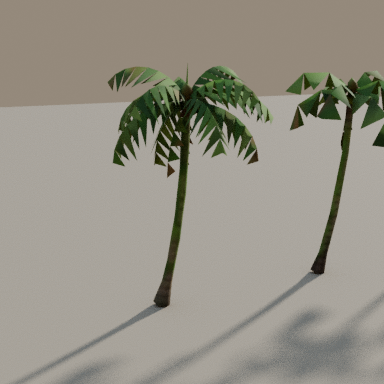
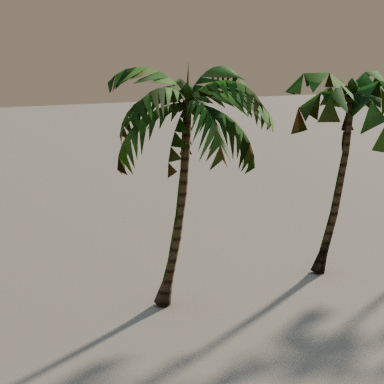
Nostalgia props: WIP checkpoint (agents working)
Claude-Session: https://claude.ai/code/session_012JpAoggZPtHm9fJ1oEKQtE

Changed region(s): [[0.2812, 0.1562, 0.7188, 0.7812], [0.75, 0.1875, 1.0, 0.5], [0.8438, 0.5625, 0.875, 0.625]]

diff --git a/nostalgia/tools/blender/props_trees.py b/nostalgia/tools/blender/props_trees.py
@@ -236,6 +236,15 @@ def uv_atlas_trees(objs, margin=0.004, angle=60.0):
     if sel(False):
         bpy.ops.uv.smart_project(angle_limit=math.radians(angle), island_margin=margin, area_weight=0.0,
                                  correct_aspect=True, scale_to_bounds=False)
+    # texel share: wood (rings, bark) gets more, foliage (flat noise) less
+    bpy.ops.object.mode_set(mode='OBJECT')
+    for o in objs:
+        f = o.get('uvs', 1.0)
+        if abs(f - 1.0) > 1e-3:
+            uv = o.data.uv_layers.active.data
+            for l in uv:
+                l.uv = l.uv * f
+    bpy.ops.object.mode_set(mode='EDIT')
     bpy.ops.mesh.select_all(action='SELECT')
     try:
         bpy.ops.uv.select_all(action='SELECT')
@@ -292,12 +301,14 @@ class Tree:
         ob = taper(self.name('trunk'), pts, radii, seg=seg, mat=mat, cap_end=cap)
         if flute_kw:
             flute(ob, pts, **flute_kw)
+        ob['uvs'] = WOOD_UV
         zt, tb = self.zt, self.tb
         P.wind(ob, lambda co, i: tb * min(1.0, max(0.0, co.z) / zt) ** 1.5, 0.0, 0.0)
         return self.add(ob, *lods)
 
     def limb(self, pts, radii, seg=5, mat=None, lods=(0, 2), phase=0.0, cap=False):
         ob = taper(self.name('limb'), pts, radii, seg=seg, mat=mat, cap_end=cap)
+        ob['uvs'] = WOOD_UV
         P.wind(ob, self.bend, phase, 0.0)
         return self.add(ob, *lods)
 
@@ -336,6 +347,7 @@ class Tree:
 
 
 UV_ANGLE = 85.0
+WOOD_UV = 1.8
 
 
 # ---- crown helpers
@@ -475,6 +487,7 @@ def build_palm_crown(T, top, fronds, mats, rachis, dry_mat=None, dry=(), lod1=No
                      sweep=fd.get('sweep', 0.45), seed=T.rnd.randrange(10 ** 6), plume=fd.get('plume', 0.0),
                      rachis_w=fd.get('rachis_w', (0.42, 0.12)), sag=fd.get('sag', 0.12))
         frond_wind(ob, base, fd['L'], tb, T.rnd.random(), fd.get('fl0', 0.3))
+        ob['uvs'] = 0.7
         T.add(ob, *fd.get('lods', (0, 0)))
     for lst, lv in ((lod1, 1), (lod2, 2)):
         for k, fd in enumerate(lst or []):
@@ -489,6 +502,7 @@ def build_palm_crown(T, top, fronds, mats, rachis, dry_mat=None, dry=(), lod1=No
             else:
                 ob = vblade(T.name('vfrond'), pts, fd.get('w', fd['L'] * 0.2), mat, hang=fd.get('hang', 35), sweep=fd.get('sweep', 0.3))
             frond_wind(ob, base, fd['L'], tb, T.rnd.random(), fd.get('fl0', 0.3))
+            ob['uvs'] = 0.7
             T.add(ob, lv, fd.get('l1', lv))
 
 
@@ -518,8 +532,8 @@ def build_coconut(A):
         t = i / (len(pts) - 1)
         r = 0.78 + 0.22 * (1 - t) ** 3 + 0.75 * max(0.0, 1 - t * 9) ** 1.5
         radii.append(r * (1.06 if i % 2 else 0.95))
-    bark = add_rings(P.M('palm_trunk', name='coco_trunk', base='#8c7d66', grain=0.22, var=0.14, scale=1.2),
-                     1.6, '#4e4236', amount=0.75, sharp=(0.45, 0.85))
+    bark = add_rings(P.M('palm_trunk', name='coco_trunk', base='#94866e', grain=0.22, var=0.14, scale=1.2),
+                     2.2, '#4a3e32', amount=0.8, sharp=(0.35, 0.8))
     T.trunk(pts, radii, seg=6, mat=bark, lods=(0, 0))
     # LOD1/2 trunk: fewer rings
     sel2 = (0, 1, 3, 6, 9)
@@ -538,14 +552,14 @@ def build_coconut(A):
              P.M('frond', name='coco_f3', base='#4c7a30', var=0.2, grain=0.2, scale=0.8),
              add_patches(P.M('frond', name='coco_f4', base='#76984a', var=0.2, grain=0.2, scale=0.8), '#b0a454', 0.6, 0.6, 0.7, 0.8)]
     dry_m = P.M('frond_dry', name='coco_dry', base='#8a6c40', var=0.22, grain=0.2, dirt='#4a3420', grime=0.3)
-    N = 12
+    N = 11
     fronds = []
     for k in range(N):
         az = k * math.radians(137.5) + 0.3
         a = k / (N - 1)  # 0 = young (up), 1 = old (low)
         fronds.append(dict(az=az, L=rnd.uniform(18.0, 21.0) - 3.0 * (1 - a) ** 2, e0=58 - 66 * a + rnd.uniform(-6, 6),
                            e1=-45 - 38 * a + rnd.uniform(-8, 8), dz=-1.2 * a + rnd.uniform(-0.3, 0.3),
-                           hang=36 + 16 * a, nleaf=8, lods=(0, 0), leaf_len=0.3 * 19, sweep=0.6))
+                           hang=36 + 16 * a, nleaf=8, lods=(0, 0), leaf_len=0.34 * 19, sweep=0.95))
     # two dry hanging fronds
     for az in (lean_az + 2.2, lean_az - 1.7):
         fronds.append(dict(az=az, L=14.0, e0=-48, e1=-86, dz=-1.6, hang=65, nleaf=5, mat=dry_m, lods=(0, 0),

diff --git a/nostalgia/tools/blender/props_poles.py b/nostalgia/tools/blender/props_poles.py
@@ -365,7 +365,6 @@ def build_streetlight(A):
     hx, hy = psc_dims(zn)
     o, p = shackle('neut', (0.0, hy + 0.78, zn), front=(0, 1, 0))
     objs += o
-    objs.append(clamp_band('neut_clamp', 0.0, zn, hx, hy, h=0.3))
     W['N'] = p
     zs = 35.0
     hx, hy = psc_dims(zs)
